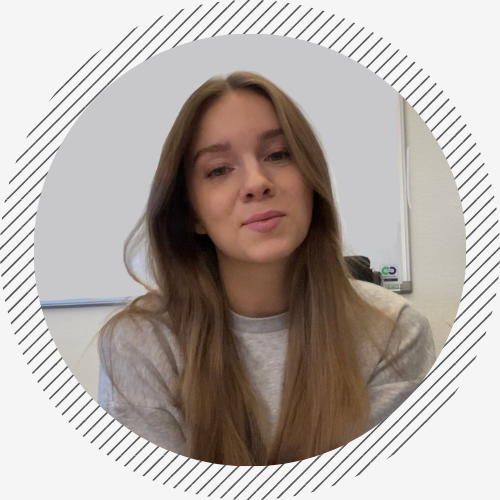
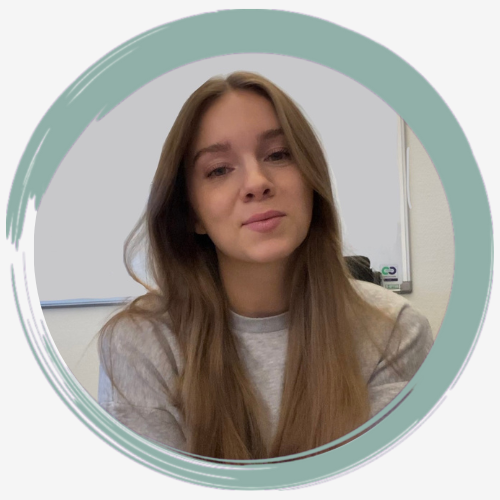
🚸 fix: Makes "home" go to home and not blank
Also adds smooth scroll. New picture as well.

Changed region(s): [[0.0, 0.0, 1.0, 1.0]]

diff --git a/styles/style.css b/styles/style.css
@@ -1,1 +1,1 @@
-/*! normalize.css v8.0.1 | MIT License | github.com/necolas/normalize.css */html{line-height:1.15;-webkit-text-size-adjust:100%}body{margin:0}main{display:block}h1{font-size:2em;margin:.67em 0}hr{box-sizing:content-box;height:0;overflow:visible}pre{font-family:monospace,monospace;font-size:1em}a{background-color:rgba(0,0,0,0)}abbr[title]{border-bottom:none;text-decoration:underline;-webkit-text-decoration:underline dotted;text-decoration:underline dotted}b,strong{font-weight:bolder}code,kbd,samp{font-family:monospace,monospace;font-size:1em}small{font-size:80%}sub,sup{font-size:75%;line-height:0;position:relative;vertical-align:baseline}sub{bottom:-0.25em}sup{top:-0.5em}img{border-style:none}button,input,optgroup,select,textarea{font-family:inherit;font-size:100%;line-height:1.15;margin:0}button,input{overflow:visible}button,select{text-transform:none}button,[type=button],[type=reset],[type=submit]{-webkit-appearance:button}button::-moz-focus-inner,[type=button]::-moz-focus-inner,[type=reset]::-moz-focus-inner,[type=submit]::-moz-focus-inner{border-style:none;padding:0}button:-moz-focusring,[type=button]:-moz-focusring,[type=reset]:-moz-focusring,[type=submit]:-moz-focusring{outline:1px dotted ButtonText}fieldset{padding:.35em .75em .625em}legend{box-sizing:border-box;color:inherit;display:table;max-width:100%;padding:0;white-space:normal}progress{vertical-align:baseline}textarea{overflow:auto}[type=checkbox],[type=radio]{box-sizing:border-box;padding:0}[type=number]::-webkit-inner-spin-button,[type=number]::-webkit-outer-spin-button{height:auto}[type=search]{-webkit-appearance:textfield;outline-offset:-2px}[type=search]::-webkit-search-decoration{-webkit-appearance:none}::-webkit-file-upload-button{-webkit-appearance:button;font:inherit}details{display:block}summary{display:list-item}template{display:none}[hidden]{display:none}*{box-sizing:border-box;font-family:"Source Sans Pro",sans-serif}.homepage{background-color:#f5f5f5;position:relative;display:grid}header{position:relative}header nav{position:fixed;z-index:4;top:0;background-color:#665dab;width:100%}header nav ul{display:flex;flex-direction:row;justify-content:space-evenly;margin-left:-20px;list-style:none}header nav ul li .nav-alt{color:#fff;text-decoration:none;font-size:1.4rem;font-weight:400}header nav ul li .nav-alt:hover{text-decoration:underline}.intro{padding-top:10vh;display:flex;flex-direction:column;align-items:center;position:relative;z-index:3}.intro h1{width:300px;text-align:center;font-size:2rem;font-weight:400}.intro h1 .intro-greeting{color:#665dab;font-family:Georgia,"Times New Roman",Times,serif;font-size:5rem;font-weight:400;text-shadow:3px 3px 3px #000}.intro h1 .intro-bold{font-weight:600}.intro img{border-radius:100%}.angle::after{background-color:#6ea67a;-webkit-clip-path:polygon(100% 100%, 0 100%, 100% 0);clip-path:polygon(100% 100%, 0 100%, 100% 0)}.angle,.angle::after{height:350px;width:100%}.angle::after{content:"";position:absolute;z-index:1;bottom:0}main{background-color:#6ea67a;position:relative}.experience{position:relative;z-index:2;display:grid;grid-template-columns:repeat(1, auto);justify-content:center;align-content:center;gap:15px;padding:1em;font-size:1.1rem}.experience article{background-color:#f5f5f5;border:3px solid #000;box-shadow:10px 10px 10px #000;border-radius:10px;padding-left:10px;padding-right:10px;width:auto;line-height:1.3}.experience article h2{text-align:center;margin-top:0;margin-bottom:-15px}.contact{height:100vh;position:relative;display:flex;flex-direction:column;align-items:center;justify-content:center;margin-top:20px}.contact h3{width:200px;color:#fff;background-color:rgba(78,128,88,.8);border-radius:15px;padding:10px;font-size:2rem}.contact a{margin:30px}footer{background-color:#665dab;color:#fff;text-align:center;position:absolute;width:100%;height:auto}@media screen and (min-width: 45em){.experience{font-size:1.2rem;grid-template-columns:repeat(2, 300px)}.experience article{width:300px}.contact{flex-direction:row;gap:50px}}@media screen and (min-width: 64em){.intro{flex-direction:row;justify-content:space-evenly;top:100px}.intro h1{font-size:3rem}.intro h1 .intro-greeting{font-size:6rem}.experience{grid-template-columns:repeat(2, 450px);gap:100px}.experience article{width:450px}.experience article h2{margin-top:5px;margin-bottom:0}}/*# sourceMappingURL=style.css.map */
+/*! normalize.css v8.0.1 | MIT License | github.com/necolas/normalize.css */html{line-height:1.15;-webkit-text-size-adjust:100%}body{margin:0}main{display:block}h1{font-size:2em;margin:.67em 0}hr{box-sizing:content-box;height:0;overflow:visible}pre{font-family:monospace,monospace;font-size:1em}a{background-color:rgba(0,0,0,0)}abbr[title]{border-bottom:none;text-decoration:underline;-webkit-text-decoration:underline dotted;text-decoration:underline dotted}b,strong{font-weight:bolder}code,kbd,samp{font-family:monospace,monospace;font-size:1em}small{font-size:80%}sub,sup{font-size:75%;line-height:0;position:relative;vertical-align:baseline}sub{bottom:-0.25em}sup{top:-0.5em}img{border-style:none}button,input,optgroup,select,textarea{font-family:inherit;font-size:100%;line-height:1.15;margin:0}button,input{overflow:visible}button,select{text-transform:none}button,[type=button],[type=reset],[type=submit]{-webkit-appearance:button}button::-moz-focus-inner,[type=button]::-moz-focus-inner,[type=reset]::-moz-focus-inner,[type=submit]::-moz-focus-inner{border-style:none;padding:0}button:-moz-focusring,[type=button]:-moz-focusring,[type=reset]:-moz-focusring,[type=submit]:-moz-focusring{outline:1px dotted ButtonText}fieldset{padding:.35em .75em .625em}legend{box-sizing:border-box;color:inherit;display:table;max-width:100%;padding:0;white-space:normal}progress{vertical-align:baseline}textarea{overflow:auto}[type=checkbox],[type=radio]{box-sizing:border-box;padding:0}[type=number]::-webkit-inner-spin-button,[type=number]::-webkit-outer-spin-button{height:auto}[type=search]{-webkit-appearance:textfield;outline-offset:-2px}[type=search]::-webkit-search-decoration{-webkit-appearance:none}::-webkit-file-upload-button{-webkit-appearance:button;font:inherit}details{display:block}summary{display:list-item}template{display:none}[hidden]{display:none}*{box-sizing:border-box;font-family:"Source Sans Pro",sans-serif;scroll-behavior:smooth}.homepage{background-color:#f5f5f5;position:relative;display:grid}header{position:relative}header nav{position:fixed;z-index:4;top:0;background-color:#665dab;width:100%}header nav ul{display:flex;flex-direction:row;justify-content:space-evenly;margin-left:-20px;list-style:none}header nav ul li .nav-alt{color:#fff;text-decoration:none;font-size:1.4rem;font-weight:400}header nav ul li .nav-alt:hover{text-decoration:underline}.intro{padding-top:10vh;display:flex;flex-direction:column;align-items:center;position:relative;z-index:3}.intro h1{width:300px;text-align:center;font-size:2rem;font-weight:400}.intro h1 .intro-greeting{color:#665dab;font-family:Georgia,"Times New Roman",Times,serif;font-size:5rem;font-weight:400;text-shadow:3px 3px 3px #000}.intro h1 .intro-bold{font-weight:600}.intro img{border-radius:100%}.angle::after{background-color:#6ea67a;-webkit-clip-path:polygon(100% 100%, 0 100%, 100% 0);clip-path:polygon(100% 100%, 0 100%, 100% 0)}.angle,.angle::after{height:350px;width:100%}.angle::after{content:"";position:absolute;z-index:1;bottom:0}main{background-color:#6ea67a;position:relative}.experience{position:relative;z-index:2;display:grid;grid-template-columns:repeat(1, auto);justify-content:center;align-content:center;gap:15px;padding:1em;font-size:1.1rem}.experience article{background-color:#f5f5f5;border:3px solid #000;box-shadow:10px 10px 10px #000;border-radius:10px;padding-left:10px;padding-right:10px;width:auto;line-height:1.5}.experience article h2{text-align:center;margin-top:0;margin-bottom:-15px}.contact{height:100vh;position:relative;display:flex;flex-direction:column;align-items:center;justify-content:center;margin-top:20px}.contact h3{width:200px;color:#fff;background-color:rgba(78,128,88,.8);border-radius:15px;padding:10px;font-size:2rem}.contact a{margin:30px}footer{background-color:#665dab;color:#fff;text-align:center;position:absolute;width:100%;height:auto}@media screen and (min-width: 45em){.experience{font-size:1.2rem;grid-template-columns:repeat(2, 300px)}.experience article{width:300px}.contact{flex-direction:row;gap:50px}}@media screen and (min-width: 64em){.intro{flex-direction:row;justify-content:space-evenly;top:100px}.intro h1{font-size:3rem}.intro h1 .intro-greeting{font-size:6rem}.experience{grid-template-columns:repeat(2, 450px);gap:100px}.experience article{width:450px}.experience article h2{margin-top:5px;margin-bottom:0}}/*# sourceMappingURL=style.css.map */

diff --git a/index.html b/index.html
@@ -29,11 +29,11 @@
 </head>
 
 <body>
-  <div class="homepage">
+  <div class="homepage" id="homepageID">
     <header>
       <nav aria-label="menu">
         <ul>
-          <li><a class="nav-alt" href="">Home</a></li>
+          <li><a class="nav-alt" href="#homepageID">Home</a></li>
           <li><a class="nav-alt" href="#experienceID">Experience</a></li>
           <li><a class="nav-alt" href="#contactID">Contact</a></li>
         </ul>

diff --git a/styles/layout/_base.scss b/styles/layout/_base.scss
@@ -1,6 +1,7 @@
 * {
   box-sizing: border-box;
   font-family: 'Source Sans Pro', sans-serif;
+  scroll-behavior: smooth;
 }
 
 /*-----------------Home page-----------------*/
@@ -120,7 +121,7 @@ main {
     padding-left: 10px;
     padding-right: 10px;
     width: auto;
-    line-height: 1.3;
+    line-height: 1.5;
 
     h2 {
       text-align: center;
